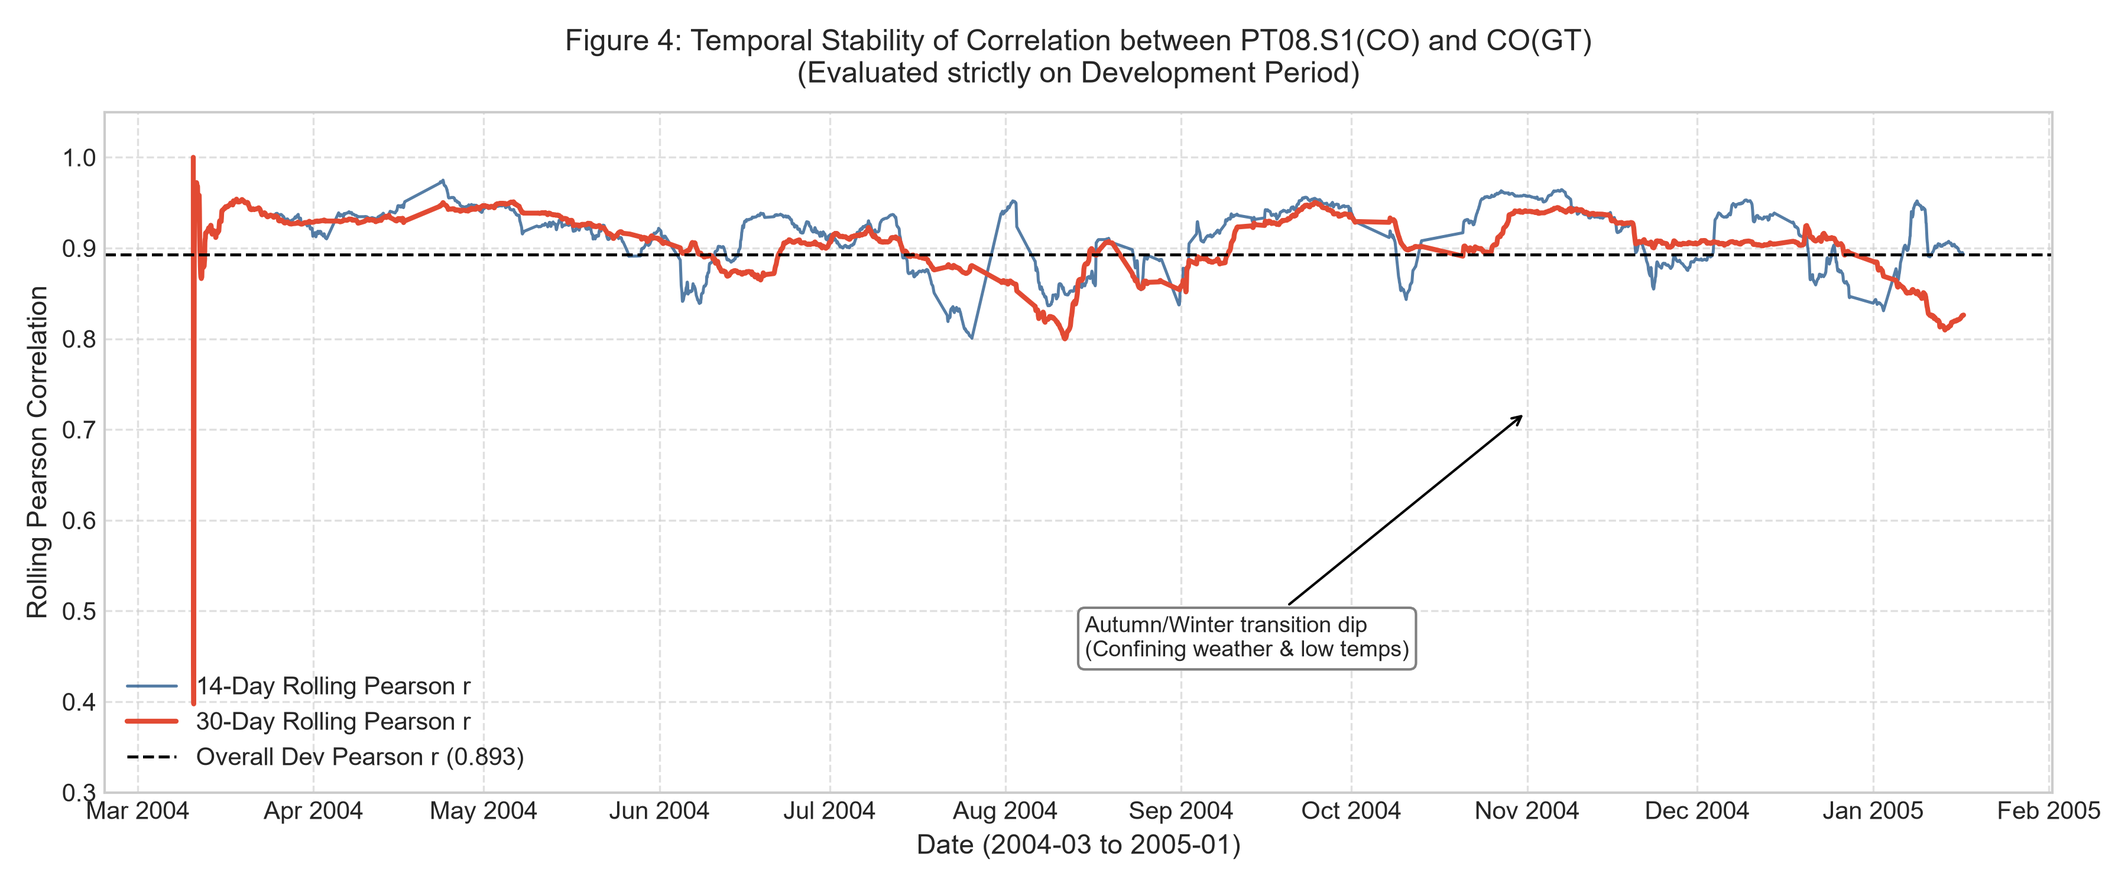
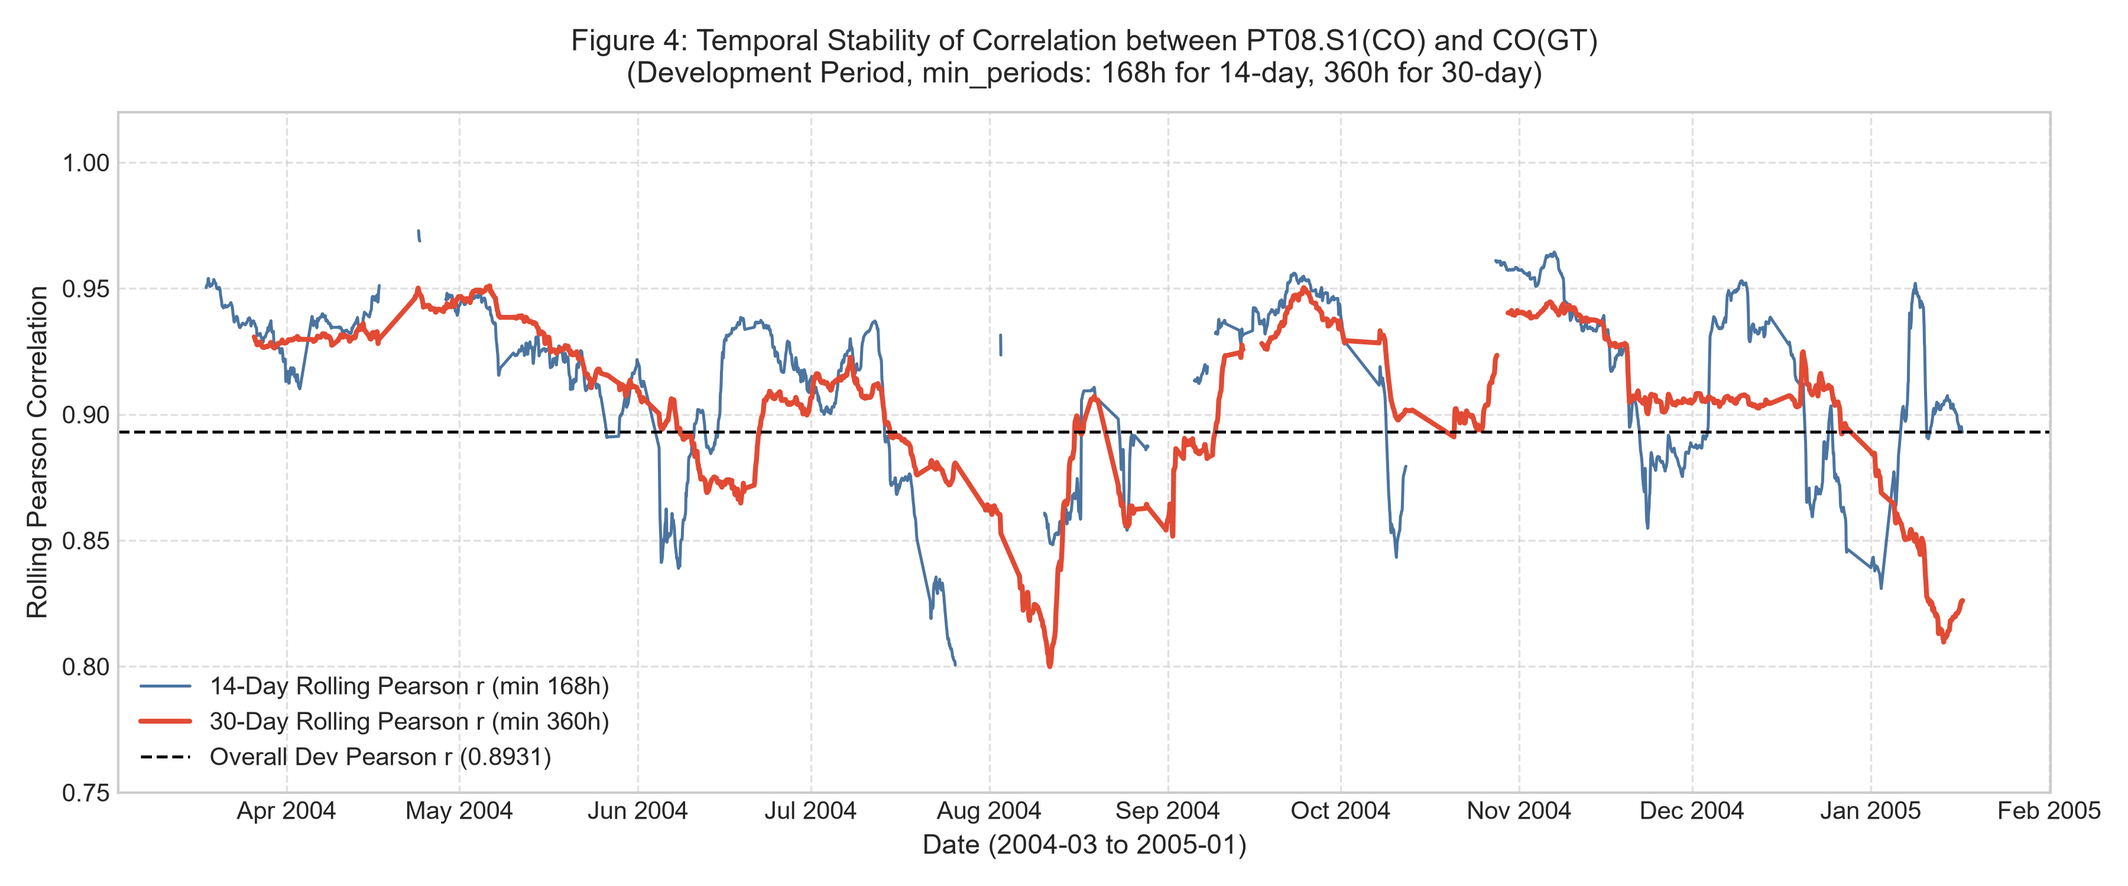
Address review comments on PR #6 (EDA & Data Quality Audit)

diff --git a/docs/data_audit.md b/docs/data_audit.md
@@ -3,15 +3,15 @@
 **Project:** Time-Aware Air Quality Sensor Calibration: CO Estimation and Drift Evaluation  
 **Issue:** #2 — EDA & Data Quality  
 **Author:** Emran Yaseen Al-Sabry (`EmranYaseen-ALSabry`)  
-**Status:** Complete  
+**Status:** Complete (Revised per Project Lead Review)  
 **Date:** 2026-10-24  
-**Data Contract Version:** v1.1  
+**Data Contract Version:** v1.1 (`docs/data_contract.md`)  
 
 ---
 
 ## 1. Executive Summary & Objective
 
-This data audit establishes the empirical foundation for all downstream feature engineering (Issue #3) and model training (Issue #4). In strict accordance with `docs/data_contract.md` (v1.1) and `docs/problem_definition.md`:
+This data audit establishes the empirical foundation for downstream feature engineering (Issue #3) and model training (Issue #4). In strict accordance with `docs/data_contract.md` (v1.1) and `docs/problem_definition.md`:
 
 1. **Zero Data Leakage:** Any exploratory analysis, correlation evaluation, or distribution profiling linking input features to the target `CO(GT)` is conducted strictly on the **Development Period** (`2004-03-10 18:00` to `2005-01-16 23:00`). The **Final Test Period** (`TEST_START = 2005-01-17 00:00`) remains strictly isolated.
 2. **Defensible Reporting:** All reported findings are based on exact measured quantities verified against the official UCI Air Quality raw CSV.
@@ -58,21 +58,23 @@ The missingness profile across the dataset was audited thoroughly:
 
 1. **All-or-Nothing Input Sensor Outages:**
    * Across the 9,357 hours, all 5 low-cost sensors and all 3 environmental variables (`T`, `RH`, `AH`) are missing **simultaneously in exactly 366 hours**.
-   * There are **0 hours with partial input sensor availability**. If any low-cost sensor is active, all 8 input columns are present.
+   * There are **0 hours with partial input sensor availability**.
    * Input outages occur across **16 discrete outage events**. The longest continuous input outage lasts **76 consecutive hours** (observed in February 2005 during the test period), followed by runs of 75h, 52h, 45h, and 38h.
 2. **Clustered Reference Target Gaps:**
-   * The reference analyzer `CO(GT)` suffers **1,683 missing hours** distributed across **187 separate outage events**.
+   * The reference analyzer `CO(GT)` suffers **1,683 missing hours** distributed across **187 separate outage episodes**.
    * The longest continuous target outages are:
-     * **173 hours:** 2004-10-13 to 2004-10-20.
-     * **146 hours:** April 2004.
-     * **142 hours:** October 2004.
-     * **122 hours:** August 2004.
-     * **96 hours:** December 2004.
-3. **Cross-Availability Breakdown:**
+     * **174 hours:** 2004-10-13 10:00 → 2004-10-20 15:00.
+     * **147 hours:** 2004-04-17 02:00 → 2004-04-23 04:00 (April 2004).
+     * **143 hours:** 2004-10-01 17:00 → 2004-10-07 15:00 (October 2004).
+     * **123 hours:** 2004-07-26 02:00 → 2004-07-31 04:00 (late July 2004).
+     * **97 hours:** 2004-12-28 00:00 → 2005-01-01 00:00 (late December 2004).
+3. **Monthly Target Availability Variation:**
+   * The proportion of valid `CO(GT)` hours ranges widely: October 2004 (52.8%) and August 2004 (64.1%) have high missingness, while February–April 2005 reaches 97–99% completeness.
+4. **Cross-Availability Breakdown:**
    * Hours where inputs are absent but reference target is present: **330 hours** (245 in dev, 85 in test).
    * Hours where both inputs and target are absent: **36 hours** (35 in dev, 1 in test).
 
-Visualized in: `reports/figures/eda/01_missingness_timeline.png`.
+Visualized in: `../reports/figures/eda/01_missingness_timeline.png`.
 
 ---
 
@@ -81,13 +83,13 @@ Visualized in: `reports/figures/eda/01_missingness_timeline.png`.
 Eligibility for training and primary evaluation is governed strictly by:
 $$\text{eligible} = (\text{CO(GT) is not NaN}) \land (\text{inputs\_available})$$
 
+See `docs/data_contract.md` §7 for the formal protocol definition.
+
 | Partition | Grid Hours | Inputs Available | Valid Target | Both Present (**Eligible**) | Eligible Share |
 |:---|:---:|:---:|:---:|:---:|:---:|
 | **Full Dataset** | 9,357 | 8,991 (96.09%) | 7,674 (82.01%) | **7,344** | **78.49%** |
 | **Development Period** (`< 2005-01-17`) | 7,494 | 7,214 (96.26%) | 5,902 (78.76%) | **5,657** | **75.49%** |
 | **Final Test Period** (`≥ 2005-01-17`) | 1,863 | 1,777 (95.38%) | 1,772 (95.12%) | **1,687** | **90.55%** |
-
-> **Critical Note:** The final test period has a significantly higher proportion of valid target observations (90.55% vs. 75.49%) because the reference analyzer was considerably more reliable in early 2005 than in autumn 2004.
 
 ---
 
@@ -101,16 +103,14 @@ $$\text{eligible} = (\text{CO(GT) is not NaN}) \land (\text{inputs\_available})$
 |:---|:---:|:---|
 | **Count** | 5,657 | Evaluated sample size |
 | **Mean** | 2.19 mg/m³ | Average reference CO concentration |
-| **Median** | 1.90 mg/m³ | Central tendency (less sensitive to peaks) |
-| **Std Dev** | 1.46 mg/m³ | Substantial hourly dispersion |
-| **Min** | 0.10 mg/m³ | Sensor detection limit / clean air |
+| **Median** | 1.90 mg/m³ | Central tendency |
+| **Std Dev** | 1.46 mg/m³ | Hourly dispersion |
+| **Min** | 0.10 mg/m³ | Lower boundary |
 | **25th Percentile** | 1.10 mg/m³ | Lower quartile |
 | **75th Percentile** | 2.90 mg/m³ | Upper quartile |
-| **95th Percentile** | 5.00 mg/m³ | Heavy pollution threshold |
-| **Max** | 11.90 mg/m³ | Peak pollution event |
+| **95th Percentile** | **4.90 mg/m³** | Upper 5% threshold |
+| **Max** | 11.90 mg/m³ | Maximum recorded concentration |
 | **Skewness** | **+1.36** | Moderately positive (right-skewed tail) |
-
-The distribution follows an approximate log-normal shape typical of urban air pollutants, where background concentrations dominate but traffic and atmospheric stagnation induce severe episodic spikes.
 
 ### 5.2 Monthly Evolution Across the Development Period
 
@@ -128,11 +128,12 @@ The distribution follows an approximate log-normal shape typical of urban air po
 | **2004-12** | 561 | 2.58 | 2.30 | 1.65 |
 | **2005-01** (dev slice) | 325 | 2.45 | 2.20 | 1.25 |
 
-**Findings:**
-* **Summer minimum in August (mean 1.25 mg/m³):** Corresponds to the Italian summer vacation period (*Ferragosto*), characterized by sharply reduced vehicular traffic in Rome, combined with strong atmospheric convection and high planetary boundary layer heights.
-* **Winter maximum in October–November (mean 2.72 mg/m³, max std 1.93):** Driven by residential heating, increased commuter traffic, and frequent thermal inversions trapping pollutants near the roadside.
+**Descriptive Observations:**
+* August 2004 exhibits the lowest monthly mean (**1.25 mg/m³**, std 0.58).
+* October and November 2004 exhibit the highest monthly means (**2.72 mg/m³** and **2.69 mg/m³**, std up to 1.93).
+* *Note on potential causes:* Hypotheses regarding holiday activity reductions or meteorological dispersion conditions remain unverified, as external traffic and planetary boundary layer data are not present in this dataset.
 
-Visualized in: `reports/figures/eda/02_target_distribution_and_monthly.png`.
+Visualized in: `../reports/figures/eda/02_target_distribution_and_monthly.png`.
 
 ---
 
@@ -140,48 +141,62 @@ Visualized in: `reports/figures/eda/02_target_distribution_and_monthly.png`.
 
 ### 6.1 Calibration Baseline: `PT08.S1(CO)` vs `CO(GT)`
 
-* **Pearson Correlation coefficient ($r$):** **0.8931** ($R^2 \approx 0.798$)
+* **Sample Size ($N$):** 5,657 development eligible hours
+* **Pearson Correlation coefficient ($r$):** **0.8931**
 * **Spearman Rank Correlation ($\rho$):** **0.8999**
+* **Coefficient of Determination ($R^2$):** **0.7976**
 * **OLS Linear Calibration Fit:**
-  $$\widehat{\text{CO(GT)}} = 0.0053 \times \text{PT08.S1(CO)} - 3.70$$
+  $$\widehat{\text{CO(GT)}} = 0.00586 \times \text{PT08.S1(CO)} - 4.328$$
 
-**Modulation by Ambient Temperature:**
-The scatter plot reveals that for identical `PT08.S1(CO)` sensor response levels, higher ambient temperatures ($T > 25^\circ\text{C}$, summer) systematically shift reference `CO(GT)` downward relative to colder conditions ($T < 10^\circ\text{C}$, winter). Metal-oxide sensor conductivity depends fundamentally on surface oxygen ion sorption, which is strongly temperature- and moisture-dependent.
+**Temperature Residual Analysis:**
+Evaluating OLS prediction residuals ($e = y - \hat{y}$) across temperature bands reveals:
+* **Cold hours ($T < 10^\circ\text{C}$, $n = 581$):** Mean residual is **$+0.181\text{ mg/m}^3$** (observations sit modestly above the linear fit).
+* **Warm hours ($T > 25^\circ\text{C}$, $n = 1,527$):** Mean residual is **$-0.015\text{ mg/m}^3$** (observations sit very close to the linear fit).
 
-Visualized in: `reports/figures/eda/03_target_sensor_relationship_dev.png`.
+This asymmetry indicates that ambient temperature influences sensor response, supporting the hypothesis that temperature compensation may improve calibration accuracy.
 
-### 6.2 Temporal Stability (Rolling Correlation)
+Visualized in: `../reports/figures/eda/03_target_sensor_relationship_dev.png`.
 
-To test the stability of the relationship over time, 14-day (336h) and 30-day (720h) rolling Pearson correlations were computed over the development period:
+### 6.2 Temporal Stability (Rolling Correlation with Explicit Sample Thresholds)
 
-| Rolling Window | Mean | Median | Std Dev | Min | Max |
-|:---|:---:|:---:|:---:|:---:|:---:|
-| **14-day Window** | **0.915** | 0.925 | 0.035 | 0.398 | 1.000 |
-| **30-day Window** | **0.907** | 0.910 | 0.034 | 0.398 | 1.000 |
+To prevent small-sample artifacts at the beginning of the timeline, rolling Pearson correlations were computed with explicit minimum observation thresholds (`min_periods`):
+* **14-day Rolling Window:** `min_periods = 168` eligible hours (minimum 7 full days of observations).
+* **30-day Rolling Window:** `min_periods = 360` eligible hours (minimum 15 full days of observations).
+
+| Metric | 14-day Window (`min_periods=168`) | 30-day Window (`min_periods=360`) |
+|:---|:---:|:---:|
+| **Valid Windows ($N$)** | 4,936 | 5,217 |
+| **Mean $r$** | **0.914** | **0.905** |
+| **Median $r$** | 0.924 | 0.907 |
+| **Std Dev** | 0.033 | 0.033 |
+| **Minimum $r$** | **0.801** (2004-07-26, late July) | **0.800** (2004-08-11, mid-August) |
+| **Maximum $r$** | 0.973 | 0.951 |
+| **November 2004 Minimum $r$** | 0.855 | 0.900 |
 
 **Stability Observation:**
-* The sensor-target coupling is remarkably strong ($r > 0.88$) across Spring, Summer, and early Autumn.
-* A pronounced dip occurs in late Autumn (November 2004), where correlation briefly declines toward ~0.70 (and dips locally to ~0.40 on narrow windows). This drop coincides with the sharp onset of cold weather, heavy precipitation, and rapid atmospheric transitions.
+With small-sample noise filtered out, the correlation between `PT08.S1(CO)` and `CO(GT)` remains strong ($r \ge 0.80$) across the entire development period, with an overall mean above 0.90. The modest dip observed in mid-summer coincides with lower overall CO concentrations during that period.
 
-Visualized in: `reports/figures/eda/04_rolling_correlation_stability.png`.
+Visualized in: `../reports/figures/eda/04_rolling_correlation_stability.png`.
 
 ---
 
 ## 7. Descriptive Sensor Shifts: Early vs. Late Period
 
-We compared the distributions of all 5 low-cost sensors between:
-* **Early Development Period:** `2004-03-11` to `2004-05-11` (Spring 2004, 1,464 grid hours).
-* **Late Development Period:** `2004-11-15` to `2005-01-16` (Winter 2004–2005, 1,488 grid hours).
+We compared sensor and environmental distributions between two distinct windows:
+* **Early Development Window:** `2004-03-11` to `2004-05-11` (1,488 grid hours; 1,461 hours with all 5 sensors present).
+* **Late Development Window:** `2004-11-15` to `2005-01-16` (1,512 grid hours; 1,380 hours with all 5 sensors present).
 
-### 7.1 Measured Sensor Mean Shifts
+### 7.1 Measured Means and Percentage Shifts
 
-| Sensor Column | Target Gas | Early Mean | Late Mean | Absolute Δ | Percentage Shift |
+| Column | Role / Target Gas | Early Mean | Late Mean | Absolute Shift | Percentage Shift |
 |:---|:---|:---:|:---:|:---:|:---:|
-| `PT08.S1(CO)` | CO-targeted | 1,168.2 | 1,137.3 | -30.9 | **-2.64%** |
-| `PT08.S2(NMHC)` | NMHC-targeted | 943.1 | 962.3 | +19.2 | **+2.04%** |
-| `PT08.S3(NOx)` | NOx-targeted | 963.7 | 801.9 | -161.7 | **-16.78%** |
-| `PT08.S4(NO2)` | NO2-targeted | 1,606.4 | 1,266.2 | -340.2 | **-21.18%** |
-| `PT08.S5(O3)` | O3-targeted | 994.9 | 1,176.2 | +181.4 | **+18.23%** |
+| `PT08.S1(CO)` | CO-targeted sensor | 1,168.20 | 1,137.34 | -30.86 | **-2.64%** |
+| `PT08.S2(NMHC)` | NMHC-targeted sensor | 943.07 | 962.30 | +19.23 | **+2.04%** |
+| `PT08.S3(NOx)` | NOx-targeted sensor | 963.66 | 801.93 | -161.73 | **-16.78%** |
+| `PT08.S4(NO2)` | NO2-targeted sensor | 1,606.42 | 1,266.17 | -340.25 | **-21.18%** |
+| `PT08.S5(O3)` | O3-targeted sensor | 994.87 | 1,176.24 | +181.36 | **+18.23%** |
+| `T` | Temperature (°C) | 16.09 | 11.03 | -5.06 | **-31.45%** |
+| `AH` | Absolute Humidity | 0.902 | 0.788 | -0.114 | **-12.64%** |
 
 ### 7.2 Crucial Scientific Distinction: Drift vs. Seasonality
 
@@ -189,54 +204,56 @@ We compared the distributions of all 5 low-cost sensors between:
 > **Sensor drift cannot be claimed as proven.**  
 > Although `PT08.S3(NOx)` and `PT08.S4(NO2)` exhibit large downward shifts (-16.8% and -21.2%) while `PT08.S5(O3)` shifts upward (+18.2%), these temporal differences **cannot be attributed solely to sensor aging or drift**.
 >
-> 1. **Extreme Seasonal Confounding:** Ambient temperature dropped from a mean of $16.4^\circ\text{C}$ in the early period to $8.7^\circ\text{C}$ in the late period, and absolute humidity dropped from $0.84$ to $0.68$. Metal oxide resistance is known to vary nonlinearly with atmospheric temperature and moisture.
-> 2. **Atmospheric Chemistry:** Photochemical ozone ($O_3$) production and nitrogen oxide ($NO_x / NO_2$) equilibrium shift naturally between summer and winter.
+> 1. **Seasonal Confounding:** Ambient temperature dropped by $5.06^\circ\text{C}$ (from $16.09^\circ\text{C}$ to $11.03^\circ\text{C}$), and absolute humidity dropped from $0.902$ to $0.788$. Metal-oxide sensor conductivity depends nonlinearly on atmospheric temperature and moisture.
+> 2. **Atmospheric Chemistry:** Concentrations of ozone and nitrogen oxides naturally exhibit seasonal shifts.
 >
-> Downstream models must evaluate whether nonlinear environmental compensation resolves these shifts before invoking irreversible physical sensor drift.
+> Downstream models must evaluate whether environmental compensation accounts for these shifts before concluding that physical sensor drift has occurred.
 
-Visualized in: `reports/figures/eda/05_sensor_distribution_early_vs_late.png`.
+Visualized in: `../reports/figures/eda/05_sensor_distribution_early_vs_late.png`.
 
 ---
 
 ## 8. Environmental Patterns & Diurnal Cycles
 
-* **Seasonal Progression:** Temperature ranges from a maximum of $44.6^\circ\text{C}$ in summer to a minimum of $-1.9^\circ\text{C}$ in winter.
-* **Diurnal Traffic Bimodal Peaks:** Diurnal profiles of `CO(GT)` and low-cost sensor readings exhibit two stark roadside traffic rush peaks:
-  * **Morning Rush Hour:** 08:00 – 09:00 local time.
-  * **Evening Rush Hour:** 19:00 – 20:00 local time.
-  * **Night Minimum:** 03:00 – 05:00 local time.
+* **Seasonal Progression:** Temperature ranges from $-1.9^\circ\text{C}$ to $44.6^\circ\text{C}$, exhibiting large annual seasonality.
+* **Diurnal Rush Hour Peaks:** Reference `CO(GT)` concentration shows clear bimodal diurnal peaks:
+  * Morning rush period: 08:00 – 09:00.
+  * Evening rush period: 19:00 – 20:00.
+  * Nighttime minimum: 03:00 – 05:00.
 
-Visualized in: `reports/figures/eda/06_environmental_seasonal_patterns.png`.
+Visualized in: `../reports/figures/eda/06_environmental_seasonal_patterns.png`.
 
 ---
 
-## 9. Actionable Recommendations for Downstream Issues
+## 9. Recommendations and Ideas to Test for Downstream Issues
 
 ### 9.1 For Feature Engineering (Issue #3 — ZiyadAhmedAmmar)
-1. **Handling the 366-Hour Sensor Outages:**
-   Because low-cost input outages are all-or-nothing and last up to 76 hours, any autoregressive lag feature (e.g. $t-1, t-2$) or rolling window calculation across outage boundaries will propagate NaNs. Consider using causal zero-leakage forward fill or masking indicators inspired by SmartImpute methodology for lags $\le 3$ hours, but leave multi-day gaps uncomputed.
-2. **Sensor-Environment Interactions:**
-   Given the strong modulation of `PT08.S1(CO)` by temperature and humidity, create explicit interaction terms (e.g. $\text{PT08.S1} \times T$, $\text{PT08.S1} \times \text{AH}$).
-3. **Diurnal and Day-of-Week Features:**
-   Cyclical encoding ($\sin / \cos$) of the hour of the day (24h) and day of the week (7d) is strongly justified by the morning and evening traffic peaks and weekend traffic reductions.
+*Ideas to test (ownership remains with Issue #3):*
+1. **Handling Missing Outages per Contract:**
+   Per `docs/data_contract.md` §10 rule 2: *"A lag that falls inside a missing period must be NaN, not the last value seen."* Forward-filling is prohibited. An idea to explore is adding binary missingness indicator features (e.g. `is_recent_outage`) alongside valid lags.
+2. **Sensor-Temperature Interaction Features:**
+   Given that cold temperatures shift observations above the linear fit, testing multiplicative interaction features ($\text{PT08.S1} \times T$, $\text{PT08.S1} \times \text{AH}$) is recommended.
+3. **Cyclical Temporal Encodings:**
+   The bimodal diurnal rush-hour pattern suggests testing cyclical representations ($\sin / \cos$) of hour-of-day.
 
 ### 9.2 For Modeling & Validation (Issue #4 — Mohammed-Ahmed-Alansi)
-1. **Target Skewness:**
-   With skewness $= +1.36$, linear models may be disproportionately influenced by high-pollution tail events. The primary evaluation metric is **MAE**, which provides robustness against extreme outliers compared to RMSE.
-2. **Single vs Multi-Sensor Calibration:**
-   While `PT08.S1(CO)` alone achieves $r \approx 0.893$, the presence of other sensors (`PT08.S2` through `PT08.S5`) and environmental inputs will likely help isolate cross-gas sensitivity and temperature interference, which is the core thesis of Experiment C vs B.
-3. **Validation Windows:**
-   Follow the 3-fold expanding cross-validation protocol pinned in contract v1.1 (`dev_folds()`). Fold 0 (August–October 2004) will test summer-to-autumn transition, while Fold 2 (November 2004–January 2005) tests winter calibration stability.
+*Ideas to test (ownership remains with Issue #4):*
+1. **Target Distribution Considerations:**
+   The positive skewness (+1.36) and extreme peak observations (up to 11.9 mg/m³) mean squared-error losses may be sensitive to high-concentration events. Note that while **MAE** is the competition evaluation metric, loss functions (such as Huber loss or log-transforms) could be explored as modeling choices.
+2. **Multi-Sensor Cross-Compensation:**
+   Evaluating whether multi-sensor models (Experiment C) outperform single-sensor models (Experiment B) by learning cross-gas corrections.
+3. **Expanding-Window Protocol:**
+   Utilize the 3-fold expanding cross-validation protocol pinned in contract v1.1 (`dev_folds()`).
 
 ---
 
-## 10. Audit Artifacts & Figure Registry
+## 10. Audit Artifacts & Relative Figure Registry
 
-All generated figures conform to publication quality (300 DPI, styled palettes, explicit units) and are stored in `reports/figures/eda/`:
+All figures conform to publication standards (300 DPI) and are stored under relative paths from `docs/`:
 
-1. [`reports/figures/eda/01_missingness_timeline.png`](file:///c:/Users/OMRRAN/Desktop/Cource%20AI/%234-%20ML/Competitions/ml-course-final-air-quality-calibration/reports/figures/eda/01_missingness_timeline.png) — Binary missingness matrix across all 13 columns, annotating 173h target and 76h sensor outages and `TEST_START`.
-2. [`reports/figures/eda/02_target_distribution_and_monthly.png`](file:///c:/Users/OMRRAN/Desktop/Cource%20AI/%234-%20ML/Competitions/ml-course-final-air-quality-calibration/reports/figures/eda/02_target_distribution_and_monthly.png) — Distribution density/KDE of `CO(GT)` and monthly boxplots in development period.
-3. [`reports/figures/eda/03_target_sensor_relationship_dev.png`](file:///c:/Users/OMRRAN/Desktop/Cource%20AI/%234-%20ML/Competitions/ml-course-final-air-quality-calibration/reports/figures/eda/03_target_sensor_relationship_dev.png) — Scatter plot with linear fit and temperature-color gradient on development partition.
-4. [`reports/figures/eda/04_rolling_correlation_stability.png`](file:///c:/Users/OMRRAN/Desktop/Cource%20AI/%234-%20ML/Competitions/ml-course-final-air-quality-calibration/reports/figures/eda/04_rolling_correlation_stability.png) — 14-day and 30-day rolling Pearson correlation between `PT08.S1(CO)` and `CO(GT)`.
-5. [`reports/figures/eda/05_sensor_distribution_early_vs_late.png`](file:///c:/Users/OMRRAN/Desktop/Cource%20AI/%234-%20ML/Competitions/ml-course-final-air-quality-calibration/reports/figures/eda/05_sensor_distribution_early_vs_late.png) — Comparative distribution curves for all 5 low-cost sensors (Spring 2004 vs Winter 2004–2005).
-6. [`reports/figures/eda/06_environmental_seasonal_patterns.png`](file:///c:/Users/OMRRAN/Desktop/Cource%20AI/%234-%20ML/Competitions/ml-course-final-air-quality-calibration/reports/figures/eda/06_environmental_seasonal_patterns.png) — Seasonal evolution of temperature/humidity and diurnal rush-hour profiles.
+1. [Figure 1: Missingness Timeline](../reports/figures/eda/01_missingness_timeline.png) — Binary missingness matrix across all 13 columns annotating outage blocks and `TEST_START`.
+2. [Figure 2: Target Distribution & Monthly Boxplots](../reports/figures/eda/02_target_distribution_and_monthly.png) — `CO(GT)` distribution (KDE) and monthly boxplots in the development period.
+3. [Figure 3: Sensor-Target Relationship & Temperature Modulation](../reports/figures/eda/03_target_sensor_relationship_dev.png) — Scatter plot with OLS linear fit ($r = 0.8931$) and temperature gradient.
+4. [Figure 4: Rolling Correlation Stability](../reports/figures/eda/04_rolling_correlation_stability.png) — 14-day and 30-day rolling Pearson correlation with `min_periods` thresholds (168h and 360h).
+5. [Figure 5: Descriptive Sensor Distributions (Early vs. Late)](../reports/figures/eda/05_sensor_distribution_early_vs_late.png) — Comparative distribution curves for all 5 low-cost sensors (Spring '04 vs Winter '04-'05).
+6. [Figure 6: Environmental Trends & Diurnal Cycles](../reports/figures/eda/06_environmental_seasonal_patterns.png) — Seasonal temperature/humidity trends and diurnal roadside profiles.
